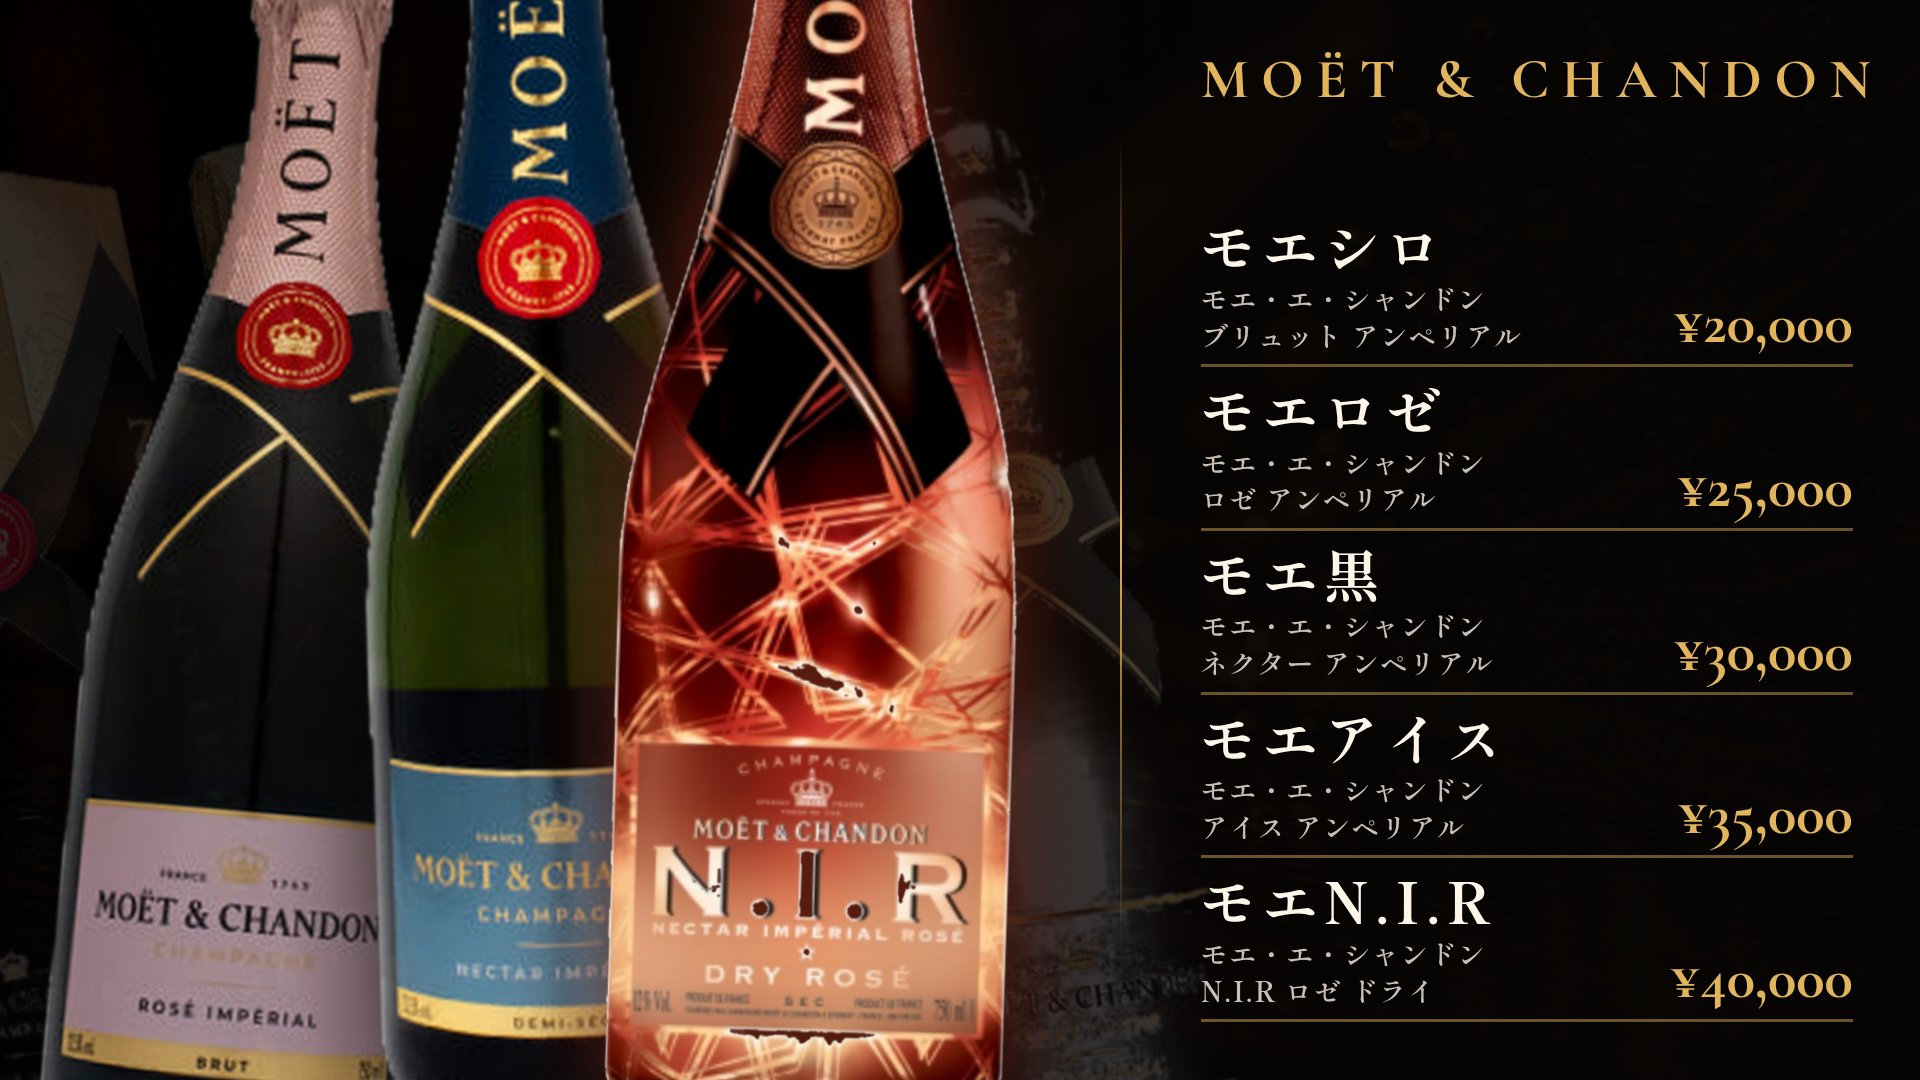
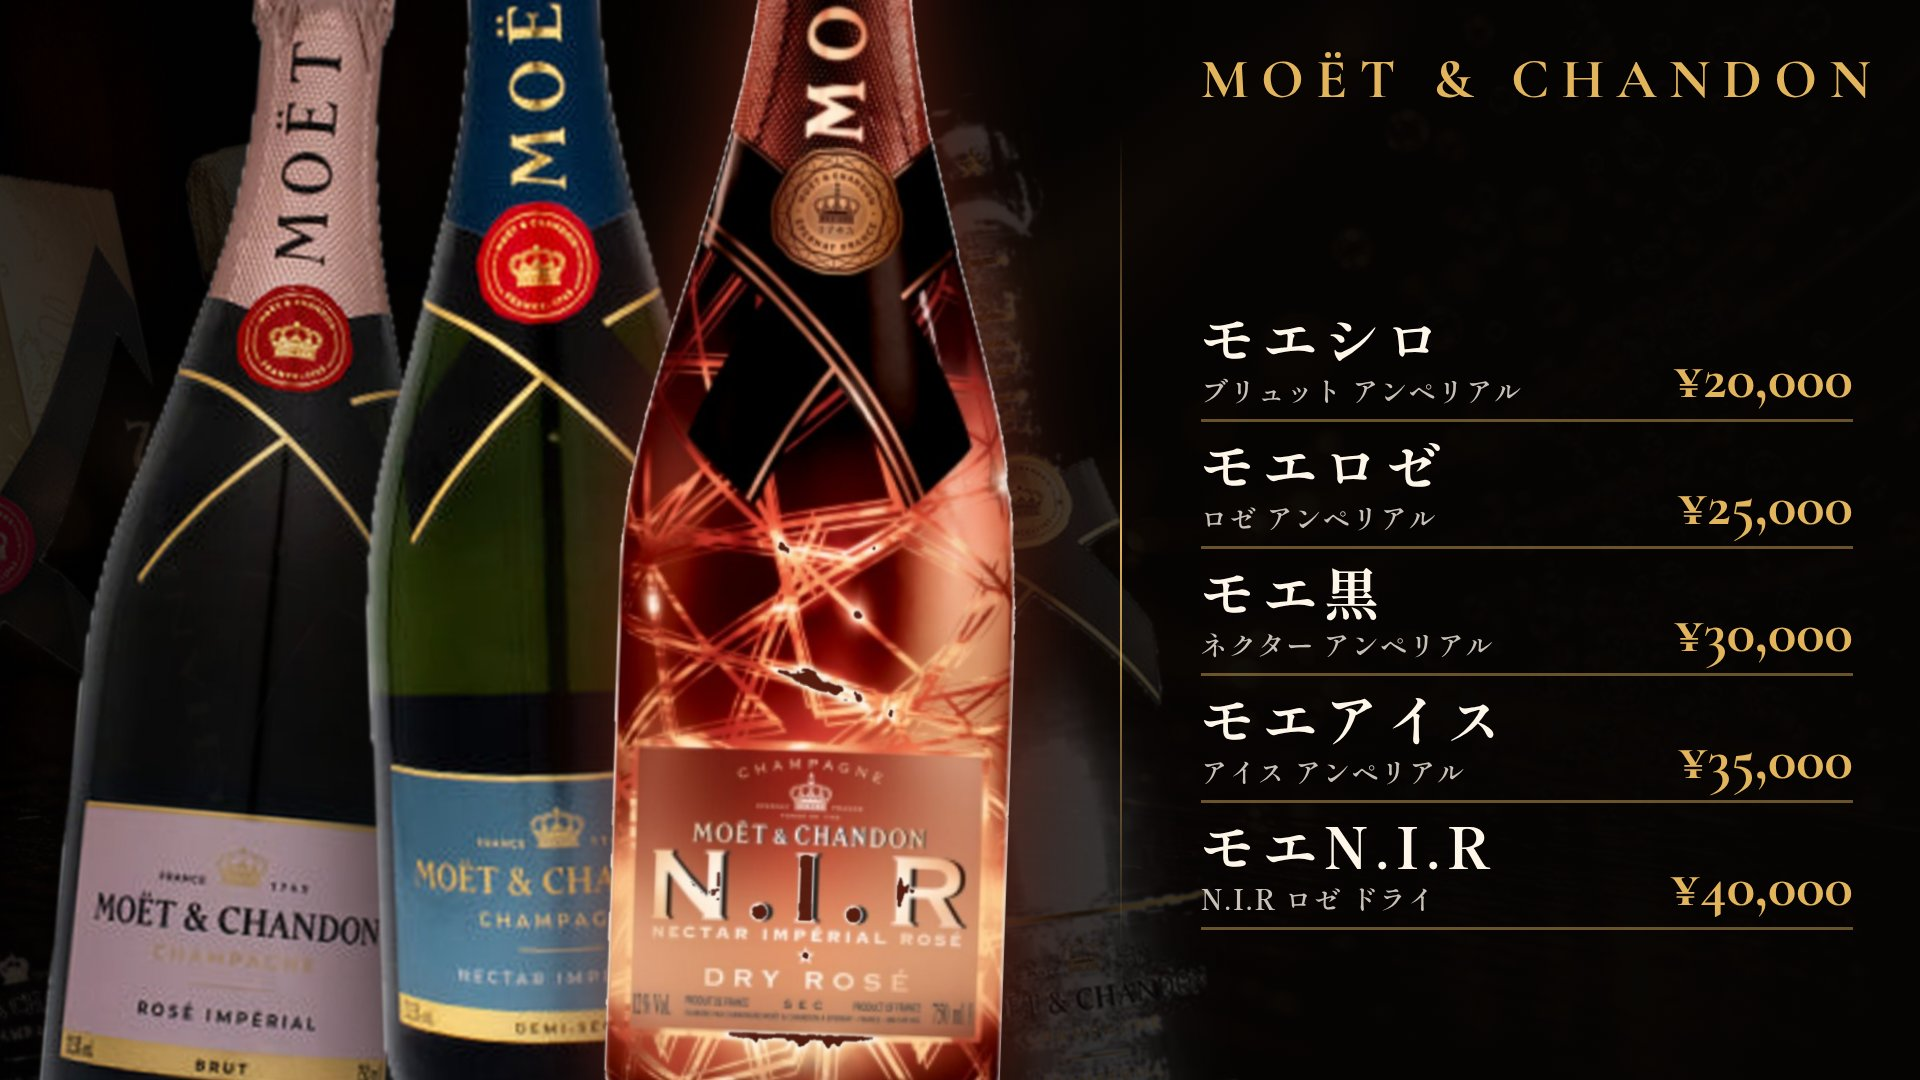
Drop モエ・エ・シャンドン prefix from Design 19 formal lines
Keep only the product variant under each nickname.

diff --git a/designs/19-trio-focus.html b/designs/19-trio-focus.html
@@ -20,7 +20,7 @@
 </div>
 <div class="panel">
 <div class="title-zone"><h1 class="title">MOËT &amp; CHANDON</h1></div>
-<div class="list"><div class="row"><div><p class="nick">モエシロ</p><p class="formal">モエ・エ・シャンドン<br>ブリュット アンペリアル</p></div><p class="price">¥20,000</p></div><div class="row"><div><p class="nick">モエロゼ</p><p class="formal">モエ・エ・シャンドン<br>ロゼ アンペリアル</p></div><p class="price">¥25,000</p></div><div class="row"><div><p class="nick">モエ黒</p><p class="formal">モエ・エ・シャンドン<br>ネクター アンペリアル</p></div><p class="price">¥30,000</p></div><div class="row"><div><p class="nick">モエアイス</p><p class="formal">モエ・エ・シャンドン<br>アイス アンペリアル</p></div><p class="price">¥35,000</p></div><div class="row"><div><p class="nick">モエN.I.R</p><p class="formal">モエ・エ・シャンドン<br>N.I.R ロゼ ドライ</p></div><p class="price">¥40,000</p></div></div>
+<div class="list"><div class="row"><div><p class="nick">モエシロ</p><p class="formal">ブリュット アンペリアル</p></div><p class="price">¥20,000</p></div><div class="row"><div><p class="nick">モエロゼ</p><p class="formal">ロゼ アンペリアル</p></div><p class="price">¥25,000</p></div><div class="row"><div><p class="nick">モエ黒</p><p class="formal">ネクター アンペリアル</p></div><p class="price">¥30,000</p></div><div class="row"><div><p class="nick">モエアイス</p><p class="formal">アイス アンペリアル</p></div><p class="price">¥35,000</p></div><div class="row"><div><p class="nick">モエN.I.R</p><p class="formal">N.I.R ロゼ ドライ</p></div><p class="price">¥40,000</p></div></div>
 </div>
 </div>
 
